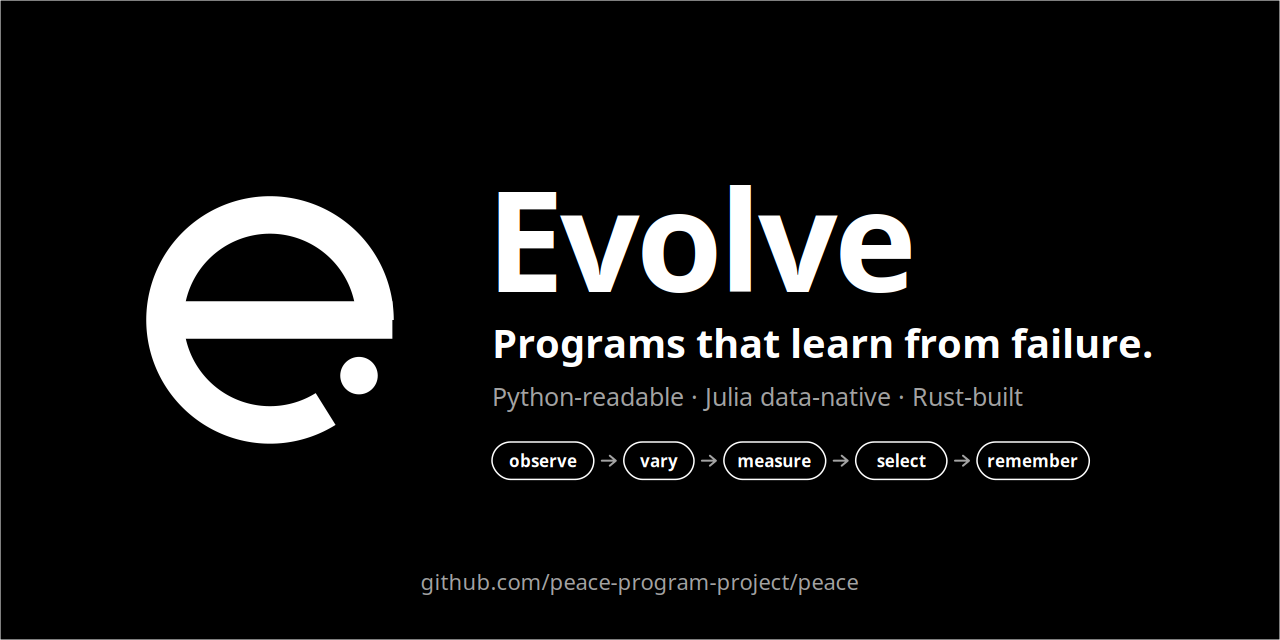
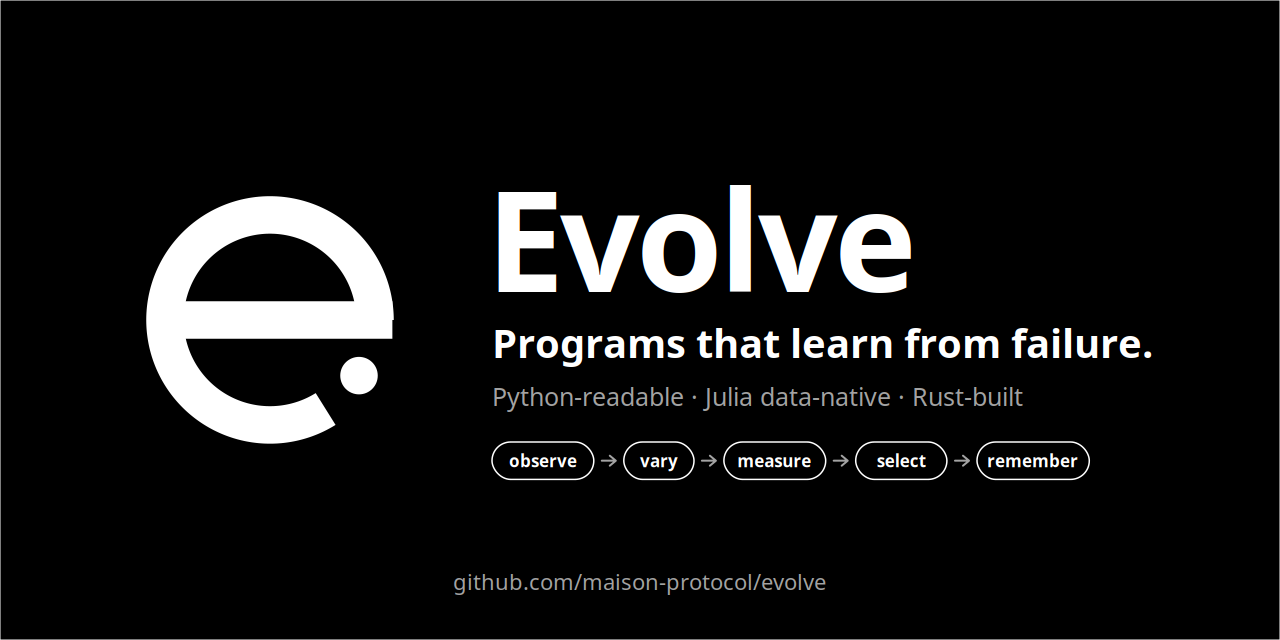
Move project home to maison-protocol/evolve
Links, issue templates, security reporting, the Lesson schema $id, the
crate repository field, RFC authors, and the social preview now point at
github.com/maison-protocol/evolve.

Changed region(s): [[0.3125, 0.875, 0.6875, 0.9375]]

diff --git a/tools/brand/generate.py b/tools/brand/generate.py
@@ -107,7 +107,7 @@ def social():
         text(492, 358, "Programs that learn from failure.", 40, t["text"], 600),
         text(492, 406, "Python-readable · Julia data-native · Rust-built", 25, t["muted"], 500),
         loop_chips(492, 442, t, 17),
-        text(640, 590, "github.com/peace-program-project/peace", 22, t["muted"], 500, "middle", MONO),
+        text(640, 590, "github.com/maison-protocol/evolve", 22, t["muted"], 500, "middle", MONO),
     ]
     return svg(W, H, "\n".join(body), "Evolve programming language")
 

diff --git a/README.md b/README.md
@@ -512,7 +512,7 @@ These are deliberately unresolved. They're the most interesting part. 🤔
 9. 🔐 **Lesson privacy:** Lessons capture inputs. How do we redact PII by default?
 10. 🌐 **Ecosystem sharing:** should Lessons be shareable across projects, like a global immune system?
 
-💬 Have an opinion? [Open an RFC issue](https://github.com/peace-program-project/peace/issues/new/choose).
+💬 Have an opinion? [Open an RFC issue](https://github.com/maison-protocol/evolve/issues/new/choose).
 
 ---
 
@@ -525,7 +525,7 @@ Evolve is at the idea stage, so the best contributions now are **use cases, synt
 | 💡 Propose a language idea | Read the [draft RFCs](rfcs/README.md), then open an **RFC** issue |
 | 🧪 Share a real-world failure | Open a **EvoBench case** issue (format: [bench/README.md](bench/README.md)) |
 | 🌍 Describe a use case | Open a **Use case** issue |
-| ❓ Ask anything | Start a [Discussion](https://github.com/peace-program-project/peace/discussions) |
+| ❓ Ask anything | Start a [Discussion](https://github.com/maison-protocol/evolve/discussions) |
 
 Read **[CONTRIBUTING.md](CONTRIBUTING.md)** and [how to help right now](docs/roadmap.md#10-how-to-help-right-now). Everyone participating agrees to our **[Code of Conduct](CODE_OF_CONDUCT.md)**. 🕊
 
@@ -546,6 +546,6 @@ Unless you explicitly state otherwise, any contribution you intentionally submit
 <i>"Nothing in biology makes sense except in the light of evolution."</i> (Theodosius Dobzhansky)<br/>
 <b><i>Nothing in Evolve makes sense except in the light of failure.</i></b> 🧬
 
-<sub>Made with 🕊 by the <a href="https://github.com/peace-program-project">Evolve Program Project</a></sub>
+<sub>Made with 🧬 by <a href="https://github.com/maison-protocol">MAISON</a></sub>
 
 </div>

diff --git a/CONTRIBUTING.md b/CONTRIBUTING.md
@@ -10,11 +10,11 @@ Thank you for wanting to help Evolve grow! 🌱 Evolve is in its **Seed** phase:
 
 | | Contribution | How |
 |:---:|---|---|
-| 💡 | **Language idea or design change** | Open an [RFC issue](https://github.com/peace-program-project/peace/issues/new?template=rfc.yml) |
-| 🧪 | **A real-world failure for EvoBench** | Open a [EvoBench case](https://github.com/peace-program-project/peace/issues/new?template=evobench.yml) |
-| 🌍 | **A use case or application** | Open a [Use case issue](https://github.com/peace-program-project/peace/issues/new?template=use-case.yml) |
+| 💡 | **Language idea or design change** | Open an [RFC issue](https://github.com/maison-protocol/evolve/issues/new?template=rfc.yml) |
+| 🧪 | **A real-world failure for EvoBench** | Open an [EvoBench case](https://github.com/maison-protocol/evolve/issues/new?template=evobench.yml) |
+| 🌍 | **A use case or application** | Open a [Use case issue](https://github.com/maison-protocol/evolve/issues/new?template=use-case.yml) |
 | 📝 | **Docs fixes** | Open a pull request directly |
-| ❓ | **Questions and open-ended discussion** | Use [Discussions](https://github.com/peace-program-project/peace/discussions) |
+| ❓ | **Questions and open-ended discussion** | Use [Discussions](https://github.com/maison-protocol/evolve/discussions) |
 
 ---
 

diff --git a/CODE_OF_CONDUCT.md b/CODE_OF_CONDUCT.md
@@ -28,7 +28,7 @@ We pledge to make participation in our community a harassment-free experience fo
 
 Community maintainers will remove, edit, or reject contributions that violate this Code of Conduct, and may temporarily or permanently ban contributors for behavior they consider harmful.
 
-**Reporting:** contact the maintainers privately through the [Evolve Program Project organization](https://github.com/peace-program-project) or a private GitHub security advisory on the repository. All reports are reviewed promptly and kept confidential.
+**Reporting:** contact the maintainers privately through the [MAISON organization](https://github.com/maison-protocol) or a private GitHub security advisory on the repository. All reports are reviewed promptly and kept confidential.
 
 Consequences follow the Contributor Covenant's [enforcement guidelines](https://www.contributor-covenant.org/version/2/1/code_of_conduct/#enforcement-guidelines): correction, warning, temporary ban, and permanent ban.
 

diff --git a/rfcs/README.md b/rfcs/README.md
@@ -16,7 +16,7 @@ RFCs ("requests for comments") are how Evolve decides anything that changes the 
 
 ## Process
 
-1. 💬 Open an issue with the [RFC form](https://github.com/peace-program-project/peace/issues/new?template=rfc.yml) to test the idea.
+1. 💬 Open an issue with the [RFC form](https://github.com/maison-protocol/evolve/issues/new?template=rfc.yml) to test the idea.
 2. 📄 Copy [`0000-template.md`](0000-template.md) to `NNNN-short-name.md` (next free number) and open a PR.
 3. 🔍 Comment period: at least two weeks, at least one core maintainer review.
 4. ✅ Decision recorded in the RFC header with a short rationale. Declined RFCs stay in the repo.

diff --git a/SECURITY.md b/SECURITY.md
@@ -6,7 +6,7 @@ Evolve is designed around **safe self-modification**: sandboxed mutations, capab
 
 Please **do not open a public issue**. Instead, use GitHub's private reporting:
 
-➡ **[Report a vulnerability](https://github.com/peace-program-project/peace/security/advisories/new)**
+➡ **[Report a vulnerability](https://github.com/maison-protocol/evolve/security/advisories/new)**
 
 Please include what you found, how to reproduce it (or why the design allows it), and its potential impact. We'll acknowledge your report within a few days.
 

diff --git a/rfcs/0003-gene-fitness-semantics.md b/rfcs/0003-gene-fitness-semantics.md
@@ -2,7 +2,7 @@
 rfc: 0003
 title: gene, fitness, and selection semantics
 status: draft
-authors: [peace-program-project]
+authors: [maison-protocol]
 created: 2026-11-21
 phase: Sprout → Branch
 requires: [0001, 0002]

diff --git a/rfcs/0005-data-model.md b/rfcs/0005-data-model.md
@@ -2,7 +2,7 @@
 rfc: 0005
 title: "Data model: arrays, frames, units, uncertainty"
 status: draft
-authors: [peace-program-project]
+authors: [maison-protocol]
 created: 2026-11-21
 phase: Root
 requires: [0001]

diff --git a/rfcs/0004-promotion-and-safety.md b/rfcs/0004-promotion-and-safety.md
@@ -2,7 +2,7 @@
 rfc: 0004
 title: Promotion and safety model
 status: draft
-authors: [peace-program-project]
+authors: [maison-protocol]
 created: 2026-11-21
 phase: Branch → Bloom
 requires: [0002, 0003]

diff --git a/rfcs/0002-lesson-schema.md b/rfcs/0002-lesson-schema.md
@@ -2,7 +2,7 @@
 rfc: 0002
 title: Lesson schema and fossil record
 status: draft
-authors: [peace-program-project]
+authors: [maison-protocol]
 created: 2026-11-21
 phase: Seed → Sprout
 requires: [0001]

diff --git a/rfcs/0001-syntax-core.md b/rfcs/0001-syntax-core.md
@@ -2,7 +2,7 @@
 rfc: 0001
 title: Core syntax
 status: draft
-authors: [peace-program-project]
+authors: [maison-protocol]
 created: 2026-11-21
 phase: Seed → Sprout
 requires: []
